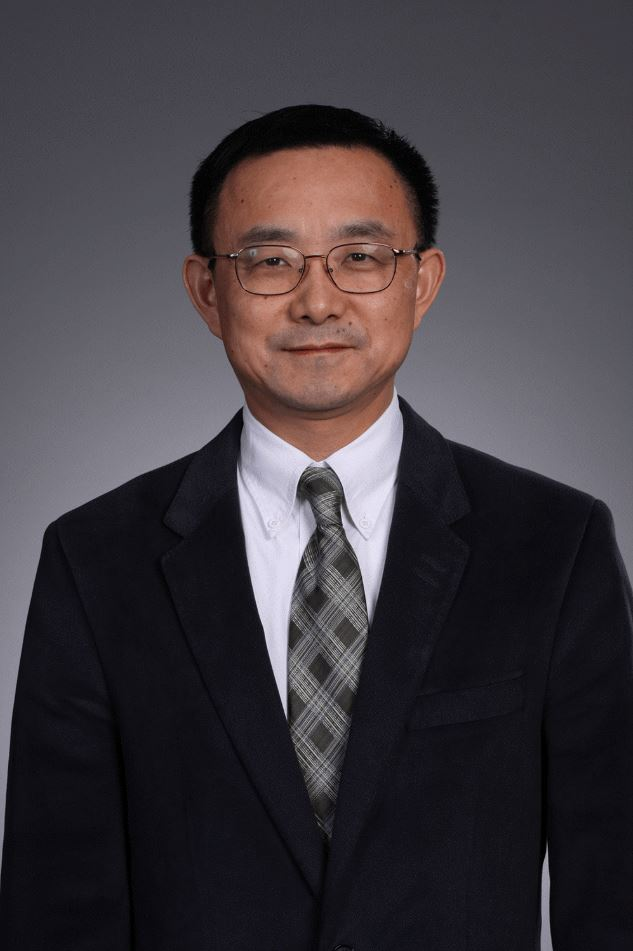
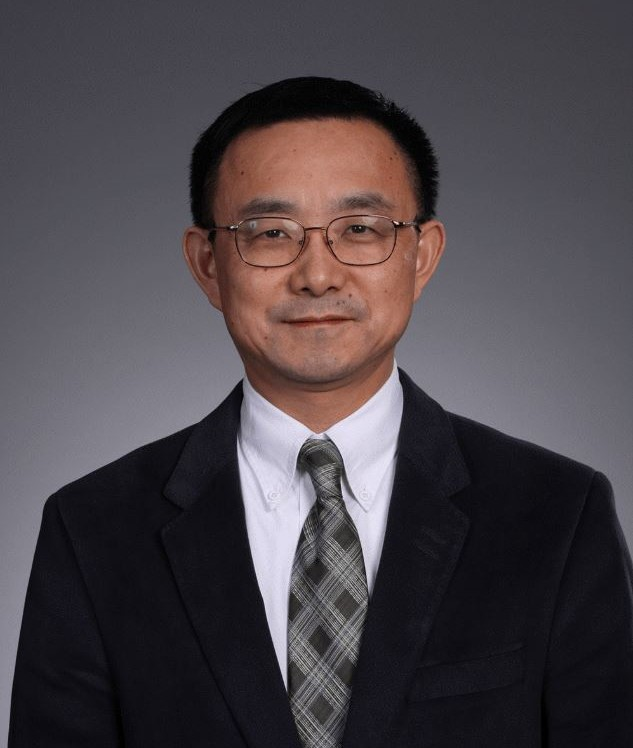
change headshot

Changed region(s): [[0.0, 0.1537, 1.0, 1.0], [0.4202, 0.0922, 0.5703, 0.123], [0.8404, 0.8917, 0.8705, 1.0]]

diff --git a/css/style.css b/css/style.css
@@ -68,6 +68,8 @@ img {
 }
 
 
+
+
 /* hero section */
 .hero {
     position: relative;
@@ -94,11 +96,35 @@ img {
 
 
 /* hero content */
+.hero {
+    display: flex;
+    justify-content: center;
+    align-items: center;
+    gap: 60px;
+    padding: 150px 0;
+    text-align: left;
+}
+
 .hero-content {
-    max-width: 800px;
-    margin: 0 auto;
+    flex: 1 1 0;
+    max-width: 600px;
     padding: 0 20px;
-    
+    margin: 0;
+}
+
+.hero-image {
+    flex: 0 0 auto;
+    display: flex;
+    align-items: center;
+    justify-content: center;
+}
+
+.hero-image img {
+    width: 320px;
+    height: auto;
+    object-fit: contain;
+    border-radius: 0;
+    box-shadow: 0 4px 16px rgba(0,0,0,0.10);
 }
 
 .hero-content h1 {
@@ -118,6 +144,7 @@ img {
     font-weight: 400;
     color: #000;
 }
+
 
 
 
